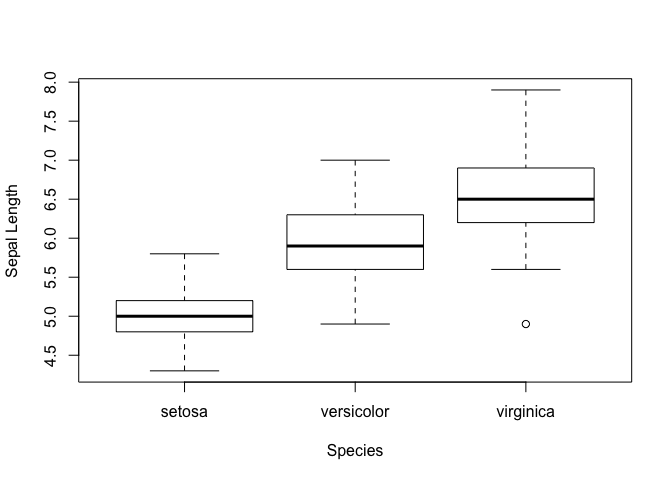
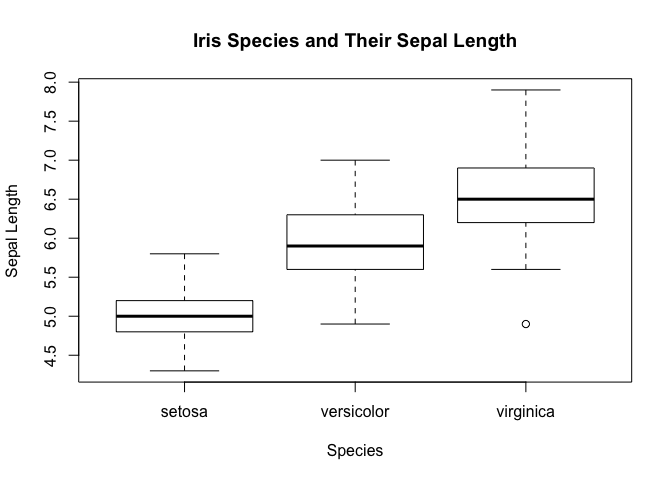
commit all

Changed region(s): [[0.2812, 0.0625, 0.7812, 0.125]]

diff --git a/R/ggplot2.md b/R/ggplot2.md
@@ -1,0 +1,171 @@
+Showing off some ggplot2 skills
+================
+Yingfei Mu & Wenjing Bao
+</br>13 April 2020
+
+## Goal and requirements
+
+The goal of this assignment is simple: I want you to produce *four*
+different figures using **ggplot2**. They don’t have to be identify
+causal relationships, or anything like that. I just want you to stretch
+your visualization legs and demonstrate any new (or existing)
+**ggplot2** skills that you have acquired since our first lecture.
+
+Some additional points:
+
+  - You are free to use any dataset that comes in-built with base R, or
+    bundled together with an external R package. See
+    [here](https://vincentarelbundock.github.io/Rdatasets/datasets.html)
+    for an impressive list.
+
+  - That being said, I would especially encourage you to use your own
+    data.
+    
+      - I know we haven’t gotten to data importation yet, but take a
+        look
+        [here](https://support.rstudio.com/hc/en-us/articles/218611977-Importing-Data-with-RStudio)
+        if you need help. I would recommend that you install the
+        **readr**, **read\_excel** and **haven** packages first, though.
+      - If your dataset isn’t proprietary (or isn’t being read directly
+        off the web), please save it in the (empty) `data/` folder of
+        this repo.
+
+  - You can use the same dataset for all four of your plots. Or you can
+    use a new dataset for each plot. Regardless of what you choose, I
+    want you to try and use different geoms for each figure.
+
+  - Any other **ggplot2** skills and add-ons like faceting, changing
+    aesthetic scales or legends, using different themes (e.g. from the
+    **ggthemes** package), animation, etc. are all welcome and
+    encouraged.
+
+  - I want to *see* the code that produces the figures. (Don’t use
+    `echo=FALSE` in any of the code chunks, if that means anything to
+    you.)
+
+### What you will be graded on
+
+  - Are your figures clear? (e.g. lack of chart chunk, non-overlapping
+    labels)
+  - Are your figures compelling? (e.g. use an appropriate geom for the
+    insight that you want to convey)
+  - Variation (I don’t want to see four line charts of the same dataset…
+    Be creative)
+  - Did you read and follow my instructions (e.g. describe your data and
+    figures, show the code that produced the figures, include data in
+    the `/data` folder, etc)
+  - etc.
+
+Lastly, don’t forget to knit the assignment (click the “Knit” button, or
+press `Ctrl+Shift+K`) before submitting\!
+
+## Start the assignment
+
+Here is a R code chunk for you to load your packages. Feel free to load
+as many other packages and insert as many additional code chunks
+(`Ctr+Alt+I`) as you need. You can always load additional packages in
+the their own chunk blocks, but I recommend loading all of your packages
+together at the top.)
+
+``` r
+if (!require("pacman")) install.packages("pacman")
+```
+
+    ## Loading required package: pacman
+
+``` r
+## Note: The `p_load()` function from the pacman package is a convenient way to 
+## install (if necessary) and load packages all at once. You can think of this
+## as an alternative to the normal `library(ggplot2); library(here);...` way of
+## loading R packages.
+pacman::p_load(ggplot2, here)
+```
+
+### Figure 1: Iris Species and Their Sepal Length
+
+Load/read in the data. (Delete this chunk if you don’t need it.)
+
+``` r
+# library(readr)
+# cool_data <- read_csv(here("data/my-cool-data.csv"))
+data(iris)
+str(iris)
+```
+
+    ## 'data.frame':    150 obs. of  5 variables:
+    ##  $ Sepal.Length: num  5.1 4.9 4.7 4.6 5 5.4 4.6 5 4.4 4.9 ...
+    ##  $ Sepal.Width : num  3.5 3 3.2 3.1 3.6 3.9 3.4 3.4 2.9 3.1 ...
+    ##  $ Petal.Length: num  1.4 1.4 1.3 1.5 1.4 1.7 1.4 1.5 1.4 1.5 ...
+    ##  $ Petal.Width : num  0.2 0.2 0.2 0.2 0.2 0.4 0.3 0.2 0.2 0.1 ...
+    ##  $ Species     : Factor w/ 3 levels "setosa","versicolor",..: 1 1 1 1 1 1 1 1 1 1 ...
+
+``` r
+summary(iris)
+```
+
+    ##   Sepal.Length    Sepal.Width     Petal.Length    Petal.Width   
+    ##  Min.   :4.300   Min.   :2.000   Min.   :1.000   Min.   :0.100  
+    ##  1st Qu.:5.100   1st Qu.:2.800   1st Qu.:1.600   1st Qu.:0.300  
+    ##  Median :5.800   Median :3.000   Median :4.350   Median :1.300  
+    ##  Mean   :5.843   Mean   :3.057   Mean   :3.758   Mean   :1.199  
+    ##  3rd Qu.:6.400   3rd Qu.:3.300   3rd Qu.:5.100   3rd Qu.:1.800  
+    ##  Max.   :7.900   Max.   :4.400   Max.   :6.900   Max.   :2.500  
+    ##        Species  
+    ##  setosa    :50  
+    ##  versicolor:50  
+    ##  virginica :50  
+    ##                 
+    ##                 
+    ## 
+
+Briefly describe the data here. Then produce the figure. There are five
+variables in this dataset, including species, petal width and length as
+well as sepal length and width. The Figure 1 tries to compare sepal
+length between different iris species. We also mapped species based on
+their sepal length and width to give a better visualization on where
+each species is.
+
+``` r
+# Plot code here
+plot(iris$Species, iris$Sepal.Length, xlab="Species", ylab="Sepal Length", main="Iris Species and Their Sepal Length")
+```
+
+![](ggplot2_files/figure-gfm/fig1-1.png)<!-- -->
+
+``` r
+ggplot(data=iris, aes(x=Sepal.Width, y=Sepal.Length, col=Species))+geom_point()
+```
+
+![](ggplot2_files/figure-gfm/fig1-2.png)<!-- --> From Figure 1, we can
+see virginica has the largest median sepal length while setosa has the
+smallest median sepal length, and there is an outlier in the virginica
+data.
+
+Finally, tell me what I am looking at. Point out anything that you think
+is of interest. Now do the same for Figs. 2-4 below…
+
+### Figure 2: Sepal Length vs. Petal Length
+
+For Figure 2, we try to find out the relationship between iris sepal
+length and petal length. From the regression line, we can see there is a
+positive correlation between iris petal length and sepal length.
+
+``` r
+# Plot code here
+plot(iris$Sepal.Length ~ iris$Petal.Length,  xlab="Petal Length", ylab="Sepal Length", main="Sepal Length vs. Petal Length", col="pink", pch=16)
+abline(lm(iris$Sepal.Length ~ iris$Petal.Length),  col="purple")
+```
+
+![](ggplot2_files/figure-gfm/fig2-1.png)<!-- -->
+
+### Figure 3: Title description
+
+``` r
+# Plot code here
+```
+
+### Figure 4: Title description
+
+``` r
+# Plot code here
+```
